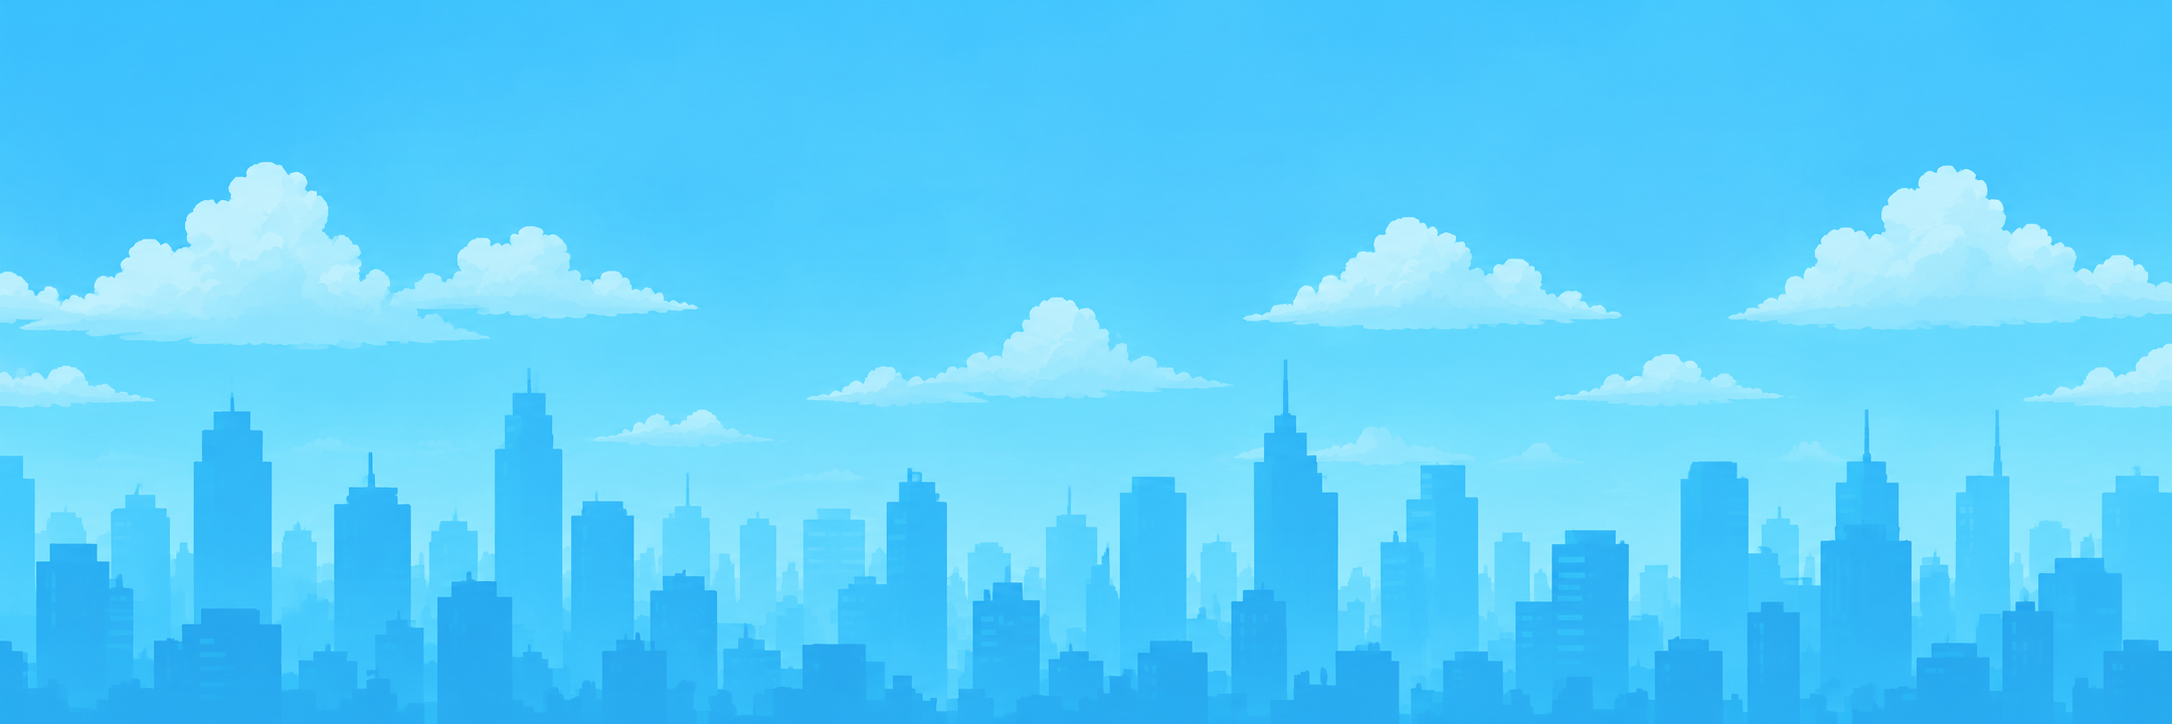
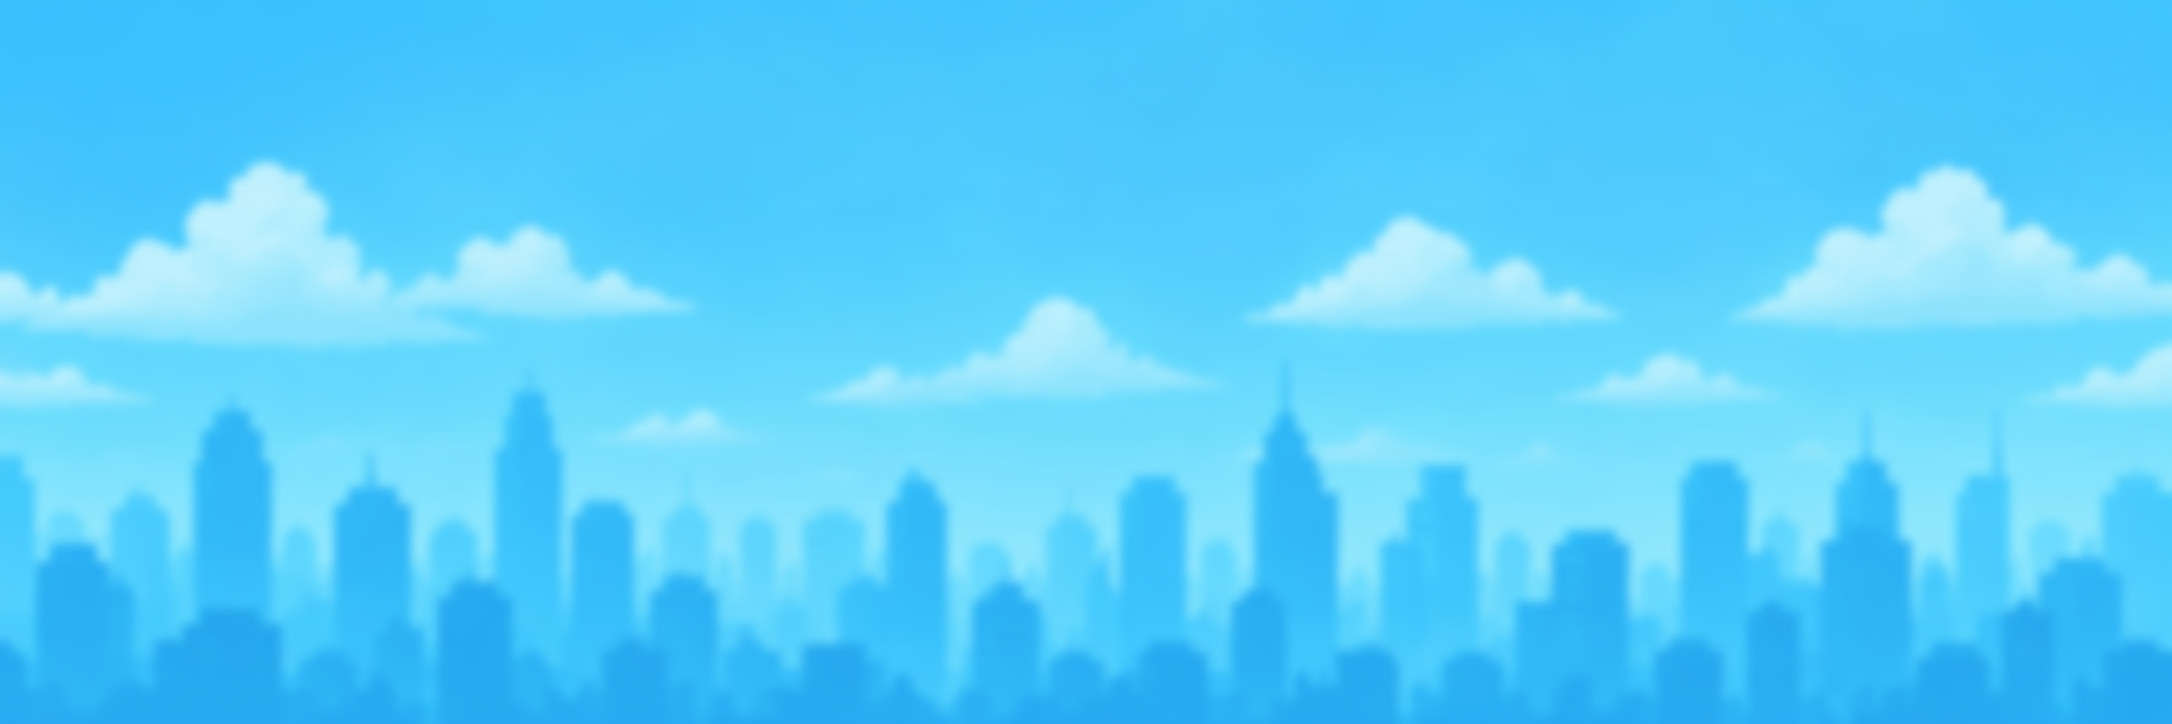
estructura juego html

diff --git a/html/juego.html b/html/juego.html
@@ -1,0 +1,42 @@
+<!DOCTYPE html>
+<html lang="en">
+
+<head>
+    <meta charset="UTF-8">
+    <meta name="viewport" content="width=device-width, initial-scale=1.0">
+    <title>Burguir</title>
+</head>
+
+<body>
+
+    <!--
+    <div class="logo">
+       <img src="imagenes/logo.png ">
+    </div>
+    -->
+
+    <div class="contenedor">
+        <div class="comanda">
+            <img src="imagenes/comida/comanda.png">
+        </div>
+
+        <div class="temporizador">
+            <img src="imagenes/comida/reloj.png">
+        </div>
+    </div>
+
+    <div class="botonera">
+        <img src="imagenes/comida/botella.png">
+        <img src="imagenes/comida/donut.png">
+        <img src="imagenes/comida/ensalada.png">
+        <img src="imagenes/comida/hamburguesa.png">
+        <img src="imagenes/comida/helado.png">
+        <img src="imagenes/comida/nachos.png">
+        <img src="imagenes/comida/patatas.png">
+        <img src="imagenes/comida/pizza.png">
+    </div>
+
+
+</body>
+
+</html>

diff --git a/html/inicio.html b/html/inicio.html
@@ -4,7 +4,7 @@
 <head>
     <meta charset="UTF-8">
     <meta name="viewport" content="width=device-width, initial-scale=1.0">
-    <title>Document</title>
+    <title>Inicio</title>
 </head>
 
 <body>
